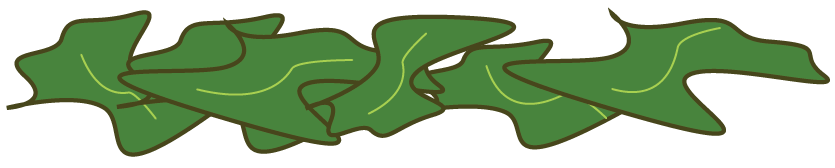
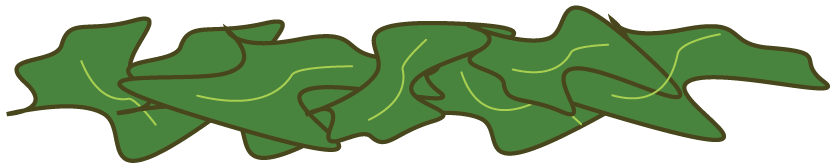
adding the top slice to sandwich
editing my final project

Changed region(s): [[0.0, 0.0298, 0.9964, 0.9821]]

diff --git a/final/script.js b/final/script.js
@@ -30,6 +30,7 @@ var s8 = document.querySelector('#s8');
 var s9 = document.querySelector('#s9');
 var slices = [];
 var zindex = ['1', '2', '3', '4', '5', '6', '7', '8', '9', '10', '11', '12', '13', '14', '15', '16'];
+var space;
 var andiScore = [];
 var gasEmissions = [];
 var chartLabels = [];
@@ -238,7 +239,7 @@ function removeSlice(id) {
 }
 
 function positionSlice() {
-  var space = 25;
+  space = 25;
 
   for (var i = 0; i < slices.length; i++) {
     slices[i].className = 'show';
@@ -267,6 +268,7 @@ var fbutton = document.querySelector('#getFoot');
 var rbutton = document.querySelector('#refresh');
 var menu = document.querySelector('#menu');
 var sandwich = document.querySelector('#sandwich');
+var cover = document.querySelector('#cover');
 var wrapper = document.querySelector('#wrapper');
 var footer = document.querySelector('#myInfo');
 var back = document.querySelector('#back');
@@ -297,6 +299,7 @@ fbutton.addEventListener('click', function() {
     console.log('Choose ingredients to make a sandwich! To find the carbon footprint of the sandwich you made, click "my footprint!".');
     return;
   }
+  addCoverSlice(slices);
   menu.className = 'disappear';
   sandwich.className = 'left';
   footprint.className = 'opaque';
@@ -352,6 +355,7 @@ back.addEventListener('click', function() {
   sandwich.className = 'right';
   footprint.className = 'transparent';
   footer.className = 'stay';
+  cover.className = 'hide';
 });
 
 back.addEventListener('mouseover', function() {
@@ -486,4 +490,11 @@ function makeSlicesHoverable(s) {
 
       }
   }
+}
+
+function addCoverSlice(s) {
+  cover.src = s[0].src;
+  cover.className = 'show';
+  cover.style.bottom = (65 + (s.length * space)) + 'px';
+  cover.style.zIndex = zindex[s.length];
 }

diff --git a/final/index.html b/final/index.html
@@ -49,6 +49,7 @@
       <img src='images/s8.png' alt='spinach' width='200' height='40' id='s7' class='hide'>
       <img src='images/s9.png' alt='tomato' width='200' height='40' id='s8' class='hide'>
       <img src='images/s10.png' alt='cheddar cheese' width='200' height='40' id='s9' class='hide'>
+      <img src='#' alt='cover' width='200' height='40' id='cover' class='hide'>
       <img src='images/plate.png' alt='plate' width='650' height='150' id='plate' class='pRight'>
       <img src='images/background.png' alt='background' width='400' height='400' id='background'>
       <section id='extraInfo' class='transparent'>
